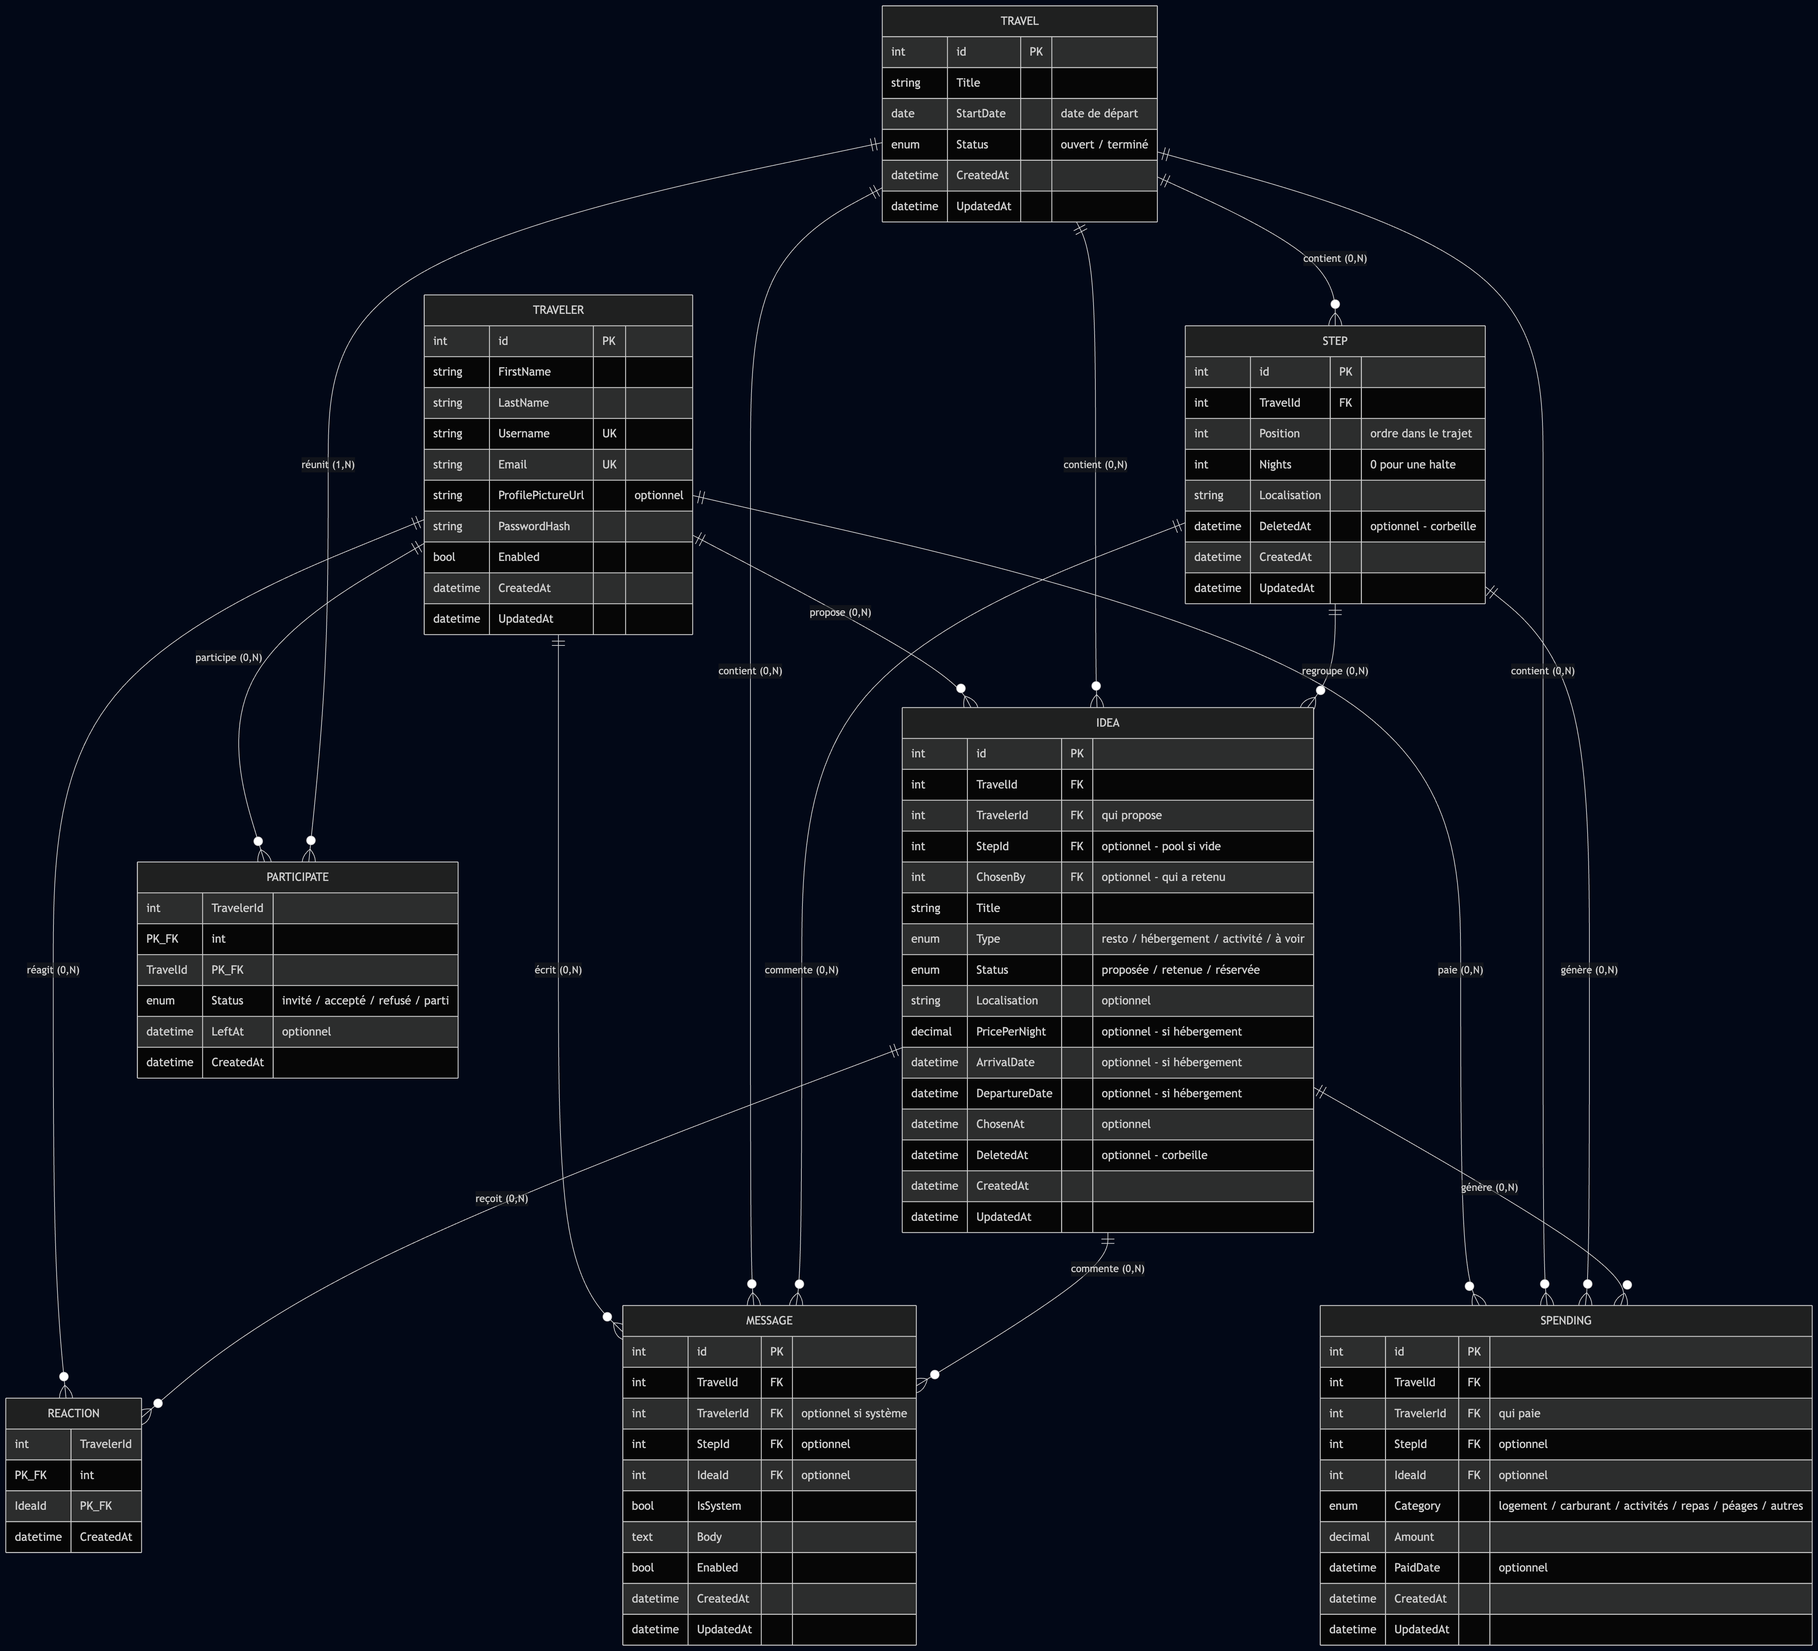
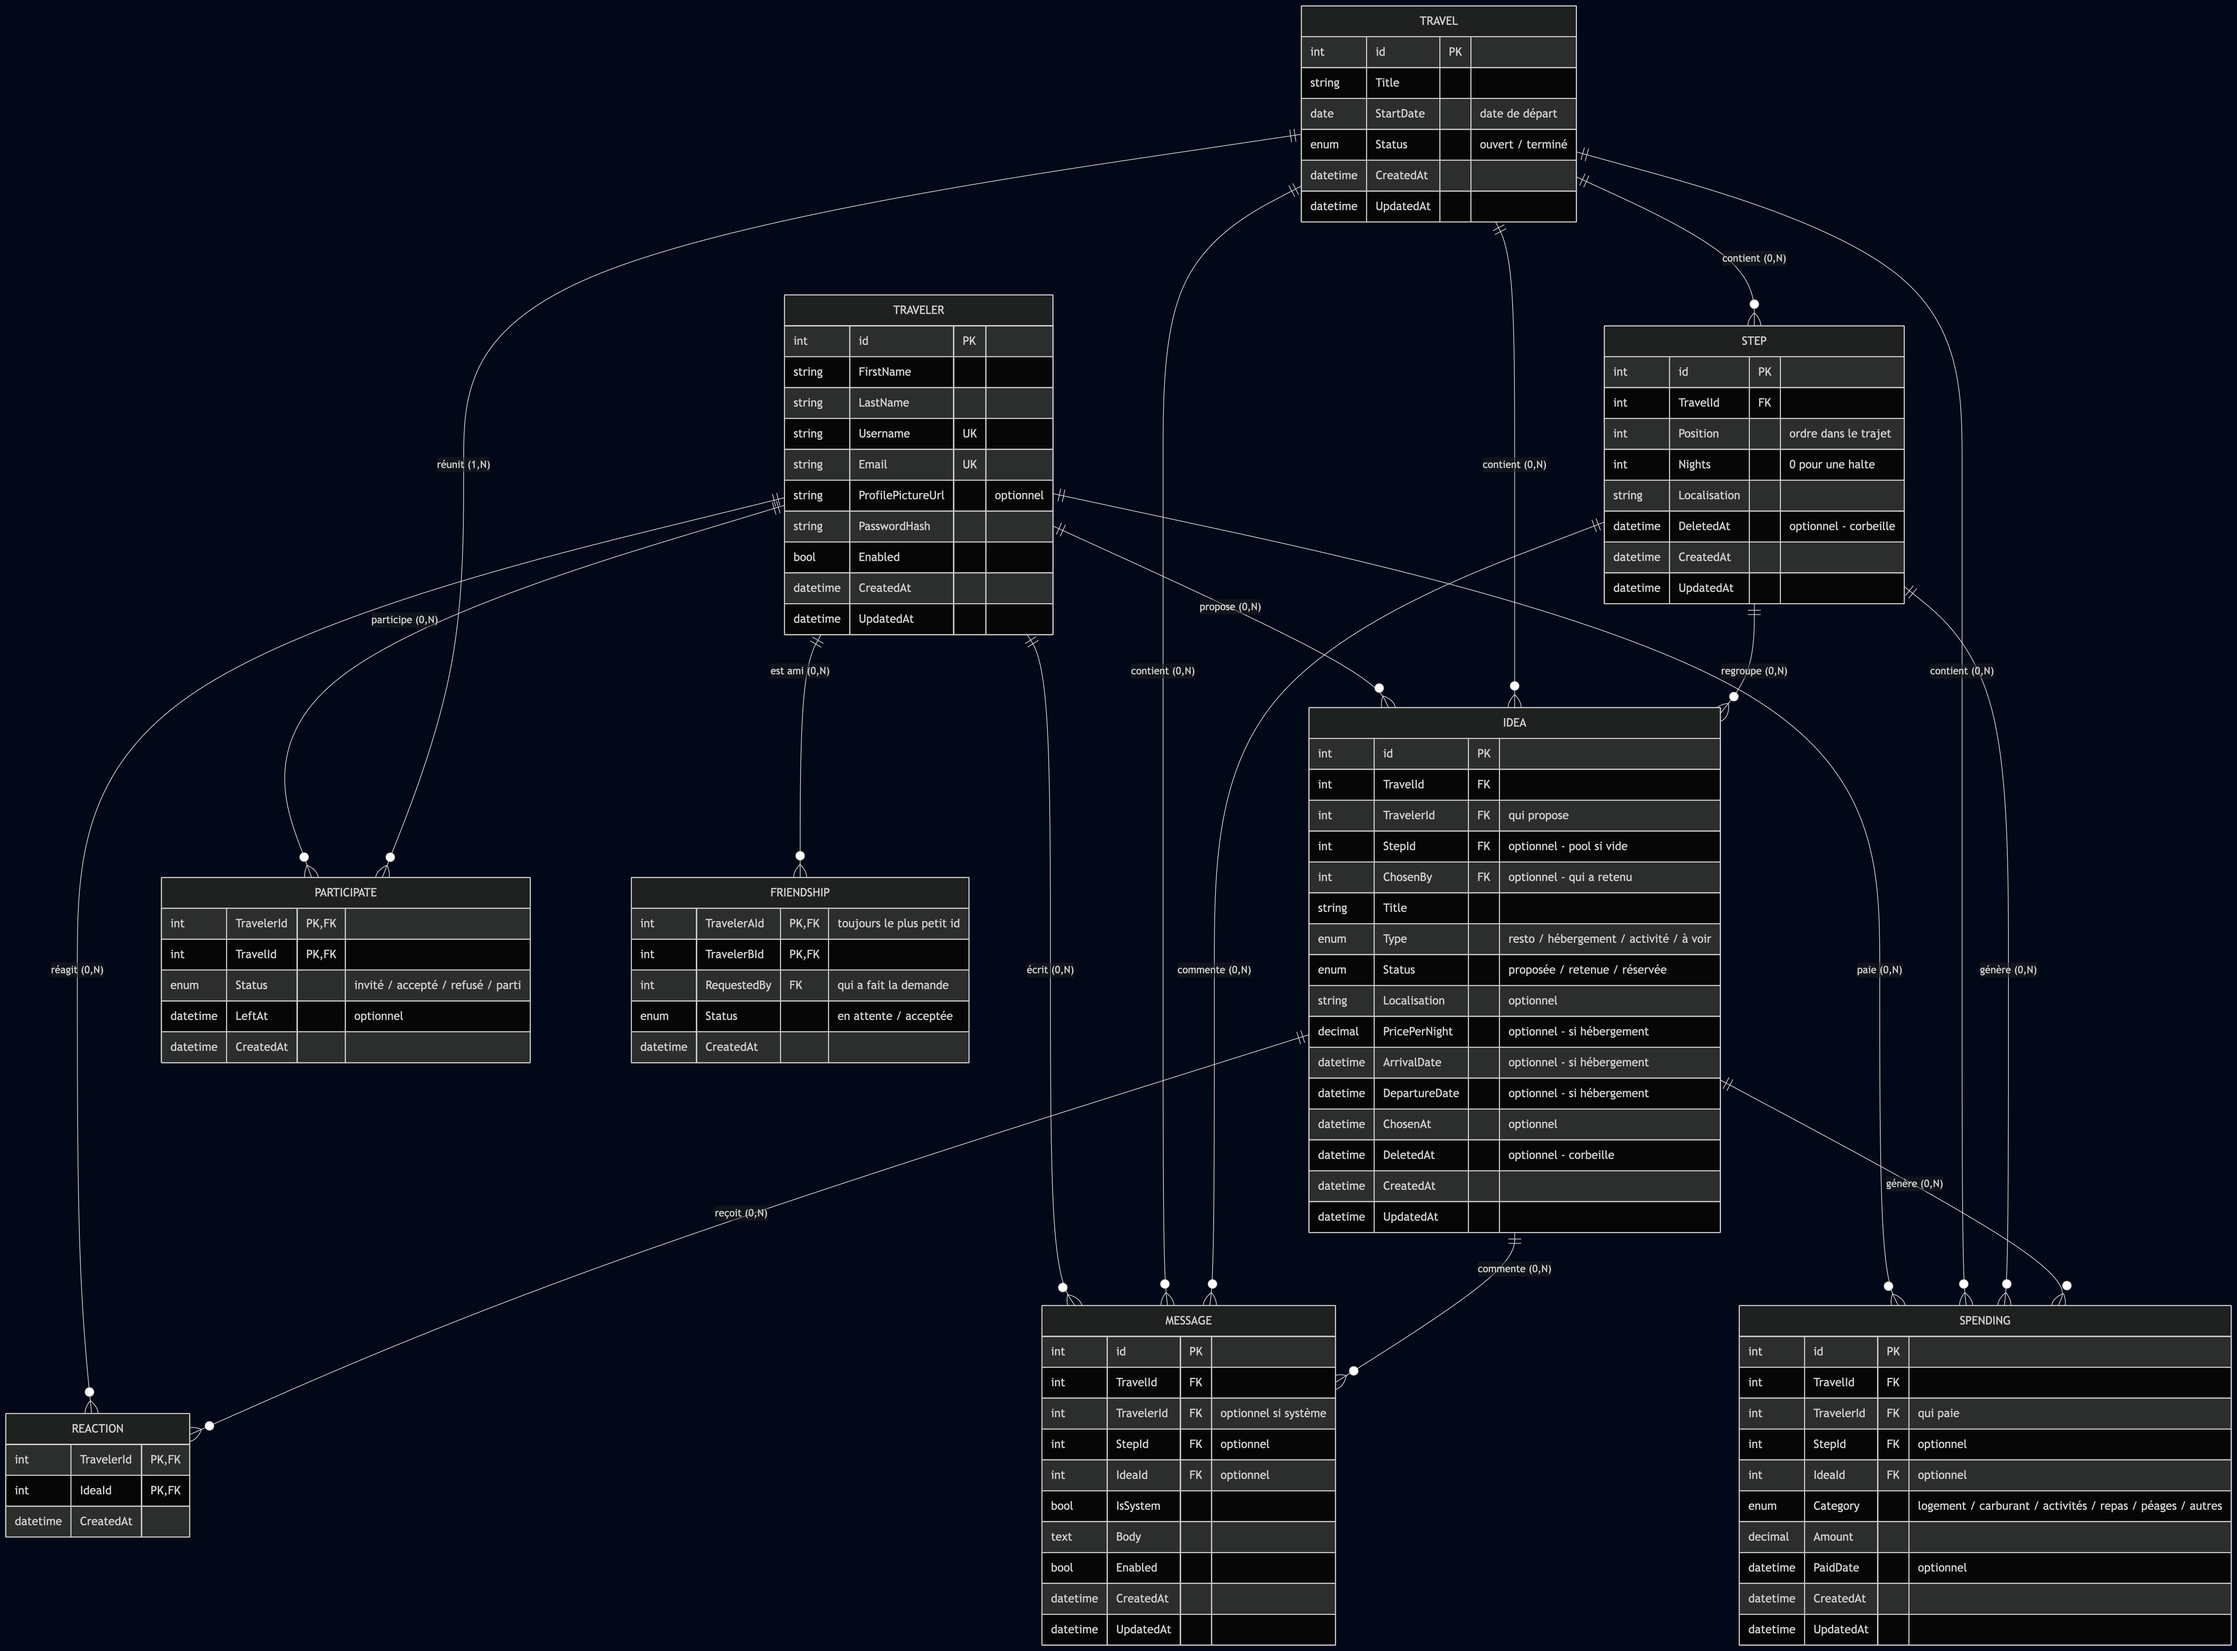
modif model_v3.md + png

diff --git a/docs/data-model/model_v3.md b/docs/data-model/model_v3.md
@@ -17,6 +17,7 @@ erDiagram
     TRAVELER ||--o{ REACTION : "réagit (0,N)"
     TRAVELER ||--o{ MESSAGE : "écrit (0,N)"
     TRAVELER ||--o{ SPENDING : "paie (0,N)"
+    TRAVELER ||--o{ FRIENDSHIP : "est ami (0,N)"
 
     TRAVEL ||--o{ STEP : "contient (0,N)"
     TRAVEL ||--o{ IDEA : "contient (0,N)"
@@ -85,14 +86,22 @@ erDiagram
     }
 
     REACTION {
-        int TravelerId PK_FK
-        int IdeaId PK_FK
+        int TravelerId PK, FK
+        int IdeaId PK, FK
+        datetime CreatedAt
+    }
+
+    FRIENDSHIP {
+        int TravelerAId PK, FK "toujours le plus petit id"
+        int TravelerBId PK, FK
+        int RequestedBy FK "qui a fait la demande"
+        enum Status "en attente / acceptée"
         datetime CreatedAt
     }
 
     PARTICIPATE {
-        int TravelerId PK_FK
-        int TravelId PK_FK
+        int TravelerId PK, FK
+        int TravelId PK, FK
         enum Status "invité / accepté / refusé / parti"
         datetime LeftAt "optionnel"
         datetime CreatedAt
@@ -139,6 +148,7 @@ erDiagram
 - **Step** : un arrêt du trajet. `Position` donne l'ordre, `Nights` la durée (0 pour une halte). Les dates se déduisent de `Travel.StartDate` et du cumul des nuits.
 - **Idea** : une proposition faite pour un voyage. Rattachée à une étape, ou libre dans le pool. Une idée d'hébergement porte en plus son prix et ses dates.
 - **Reaction** : un ❤ d'une personne sur une idée. Purement indicatif.
+- **Friendship** : un lien d'amitié entre deux comptes, indépendant des voyages. Un refus supprime la ligne plutôt que de la conserver.
 - **Message** : un message du chat, rattachable au voyage, à une étape ou à une idée. `IsSystem` distingue les notifications automatiques.
 - **Spending** : une dépense, rattachable au voyage seul (carburant), à une étape (péage) ou à une idée (le resto qu'on a fait).
 
@@ -169,6 +179,7 @@ erDiagram
 | 12 | `DeletedAt` sur `Step` et `Idea` | Édition à quatre en simultané : la suppression accidentelle est un cas réel, et les cascades la rendent irrattrapable. | Maquette |
 | 13 | Promotion idée → étape : l'idée disparaît | Sinon le même lieu s'affiche deux fois. Dépenses et messages sont transférés vers l'étape. | |
 | 14 | `PricePerNight` sur `Idea` | Affiché dans la maquette (« 95 CHF/nuit »), absent de la v2. | Maquette |
+| 15 | Table `Friendship` réintroduite | **Exigée par un module de notre socle**, pas un bonus : « standard user management » impose d'ajouter des amis et de voir leur statut en ligne. Présente en v1 de Sylvain, disparue en v2. La maquette affiche déjà « 12 Amis ». | Sujet + maquette |
 
 ### Statuts (point 5)
 
